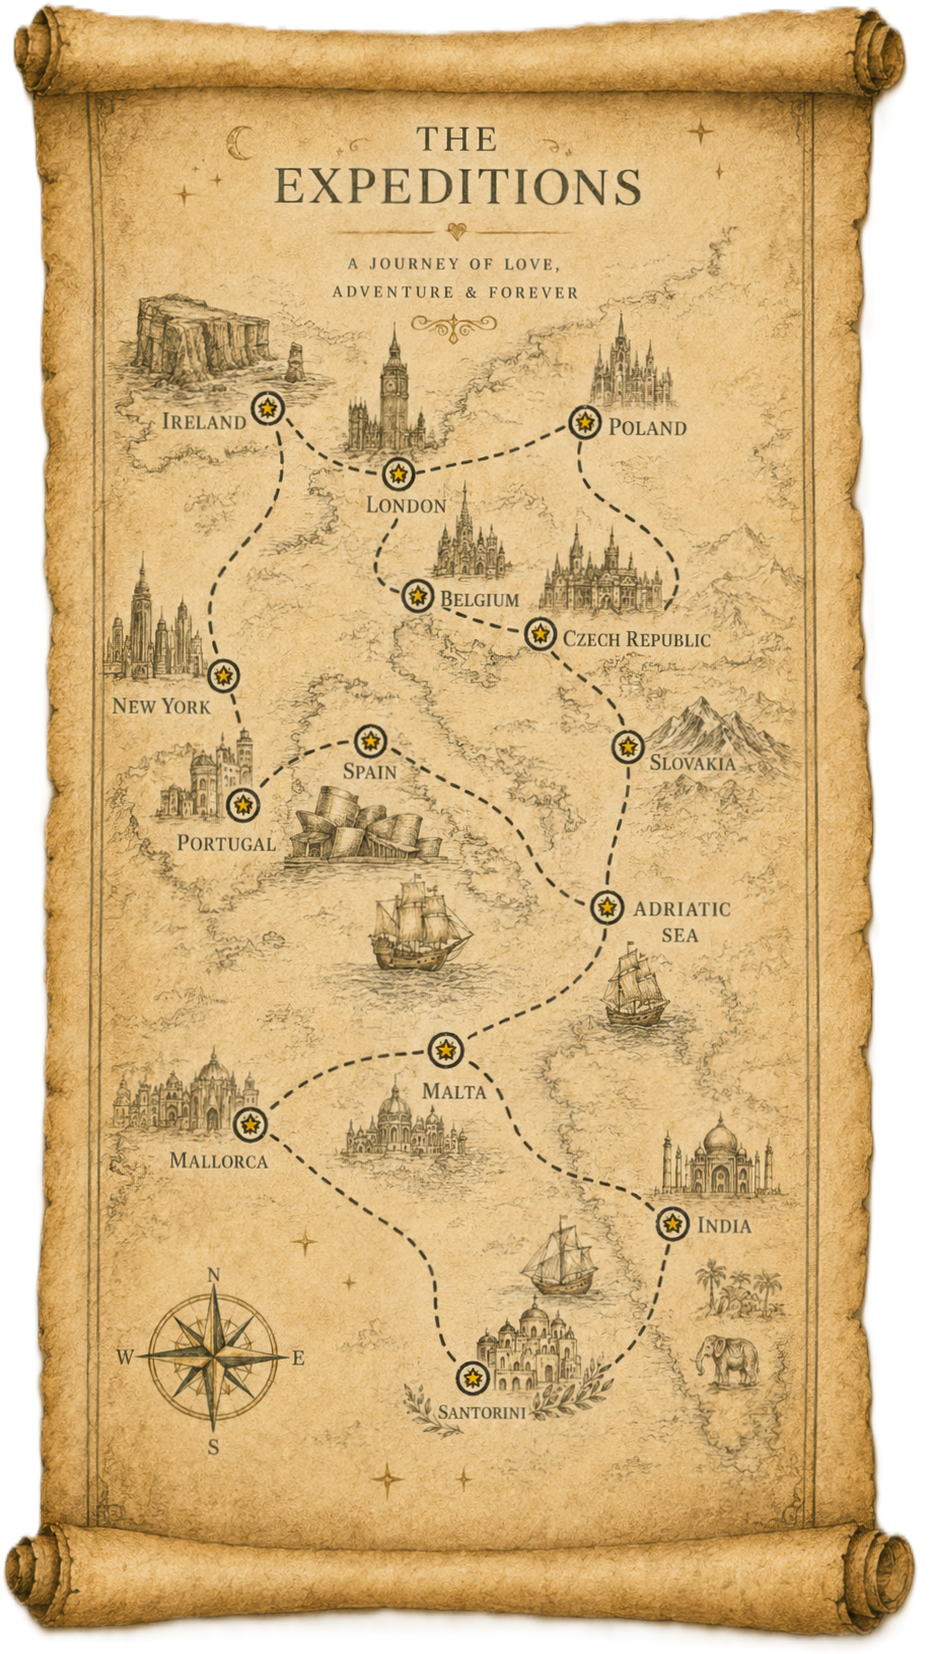
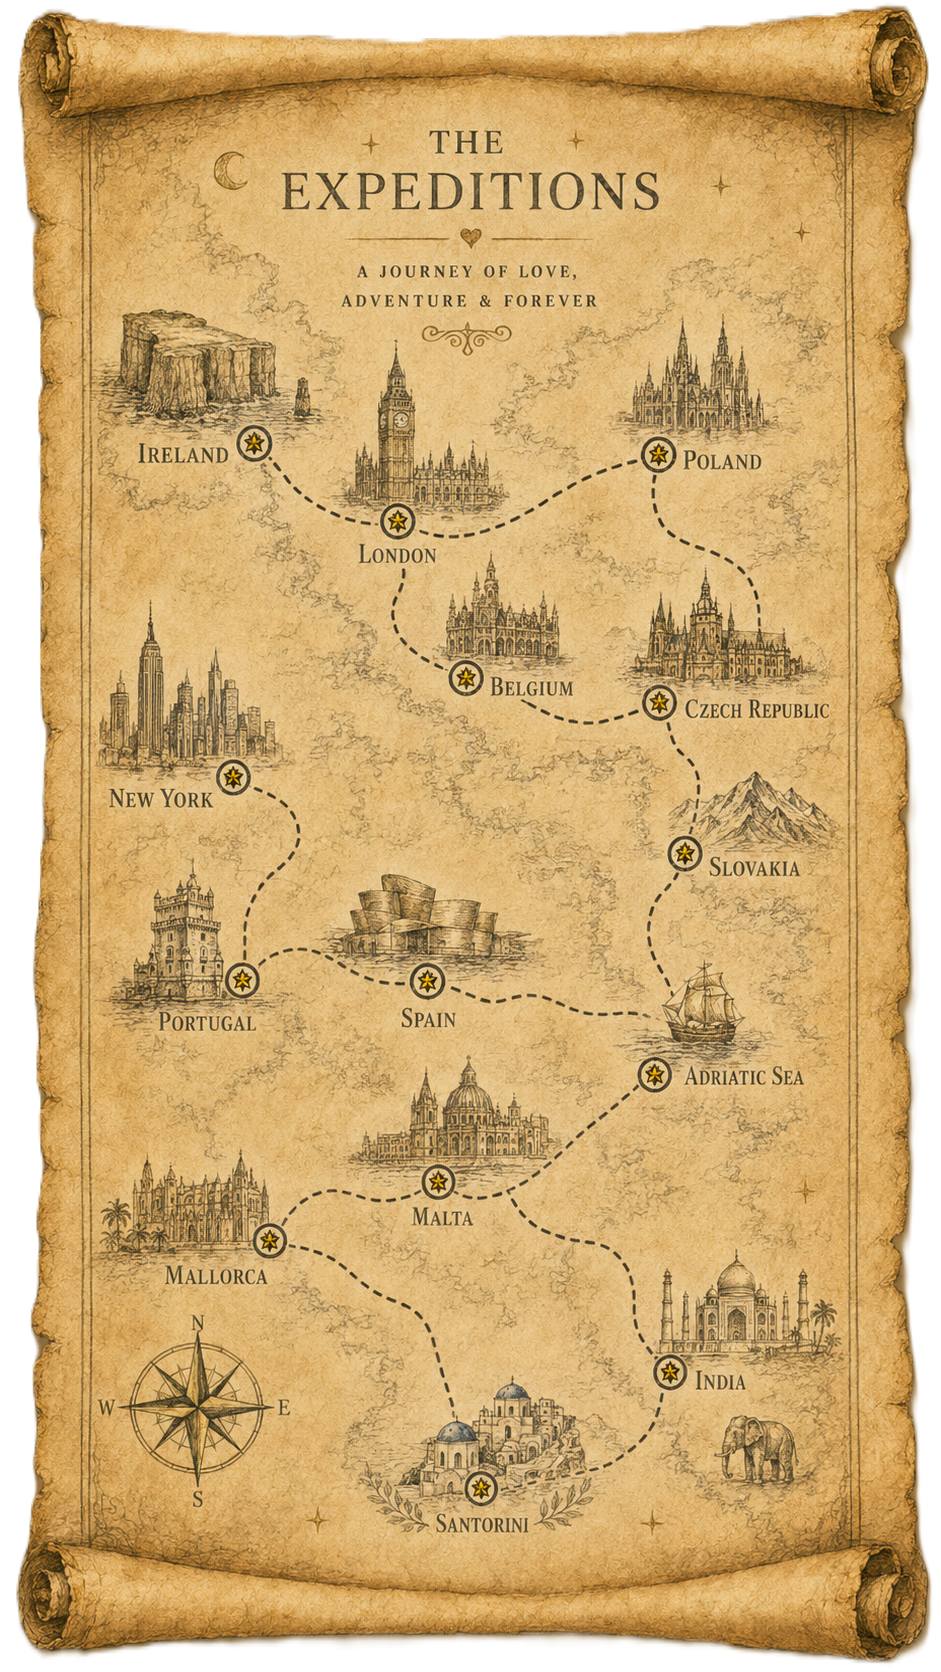
Re-measure waypoints against refined map + resize photo stacks per device
Map artwork replaced again with a version that has more evenly distributed
markers. Re-detected all 14 waypoint coordinates via colour-threshold marker
detection and verified by drawing them back onto the image -- caught and
fixed a Slovakia/Adriatic Sea mix-up in the process (their markers sit close
together and got swapped on the first pass).

Photo stacks: bigger on desktop/laptop (38px -> 50px), slightly smaller on
mobile (38px -> 34px) than the previous shared size.

diff --git a/index.html b/index.html
@@ -462,8 +462,11 @@
      rest stay dissolved back into their waypoint. Kept deliberately tiny --
      just a glance, not a full preview. */
   .map-mini-stack{
-    display:block; position:absolute; z-index:4; width:38px;
+    display:block; position:absolute; z-index:4; width:50px;
     transform:translate(-50%, calc(-100% - 6px)); cursor:pointer; /* static positioning -- never animated */
+  }
+  @media (max-width:768px){
+    .map-mini-stack{width:34px;} /* slightly smaller than the desktop/laptop size above */
   }
   /* pops up out of the waypoint (scale from near-zero, anchored at the
      bottom edge nearest the marker) as it scrolls into view, and dissolves
@@ -1654,25 +1657,26 @@
   // Malta1.jpg, Malta2.jpg ... Malta5.jpg (up to MAX_DECK_PHOTOS, gaps
   // allowed, all optional) become that destination's fanned photo deck,
   // resolved lazily on first open. See assets/photos/README.md.
-  // coordinates re-measured directly against the vertical/portrait map
-  // artwork (colour-thresholded marker detection, not eyeballed) after the
-  // image was swapped from a wide horizontal scroll to a tall vertical one --
-  // the old map didn't work well on mobile, the new one reads top-to-bottom.
+  // coordinates re-measured against the latest map artwork (evenly
+  // re-distributed markers, still vertical/portrait) via colour-thresholded
+  // marker detection, verified by drawing them back onto the image. Watch
+  // for Slovakia/Adriatic Sea specifically -- their markers sit close
+  // together and got swapped once already when re-measuring blind.
   var EXPEDITIONS = [
-    {id:'ireland', photoBase:'Ireland', key:'destIreland', x:28.7, y:24.7},
-    {id:'london', photoBase:'London', key:'destLondon', x:42.8, y:28.7},
-    {id:'poland', photoBase:'Poland', key:'destPoland', x:62.8, y:25.5},
-    {id:'new-york', photoBase:'NewYork', key:'destNewYork', x:24.0, y:40.9},
-    {id:'belgium', photoBase:'Belgium', key:'destBelgium', x:44.8, y:36.0},
-    {id:'czech-republic', photoBase:'CzechRepublic', key:'destCzechRepublic', x:58.0, y:38.3},
-    {id:'portugal', photoBase:'Portugal', key:'destPortugal', x:26.0, y:48.7},
-    {id:'spain', photoBase:'Spain', key:'destSpain', x:39.8, y:44.8},
-    {id:'slovakia', photoBase:'Slovakia', key:'destSlovakia', x:67.4, y:45.2},
-    {id:'adriatic-sea', photoBase:'AdriaticSea', key:'destAdriaticSea', x:65.2, y:54.8},
-    {id:'mallorca', photoBase:'Mallorca', key:'destMallorca', x:26.9, y:68.0},
-    {id:'malta', photoBase:'Malta', key:'destMalta', x:47.9, y:63.5},
-    {id:'india', photoBase:'India', key:'destIndia', x:72.2, y:74.0},
-    {id:'santorini', photoBase:'Santorini', key:'destSantorini', x:50.8, y:83.3}
+    {id:'ireland', photoBase:'Ireland', key:'destIreland', x:27.0, y:26.3},
+    {id:'london', photoBase:'London', key:'destLondon', x:42.1, y:31.1},
+    {id:'poland', photoBase:'Poland', key:'destPoland', x:69.9, y:27.1},
+    {id:'new-york', photoBase:'NewYork', key:'destNewYork', x:24.9, y:46.4},
+    {id:'belgium', photoBase:'Belgium', key:'destBelgium', x:49.6, y:40.4},
+    {id:'czech-republic', photoBase:'CzechRepublic', key:'destCzechRepublic', x:70.0, y:41.9},
+    {id:'portugal', photoBase:'Portugal', key:'destPortugal', x:25.7, y:58.5},
+    {id:'spain', photoBase:'Spain', key:'destSpain', x:45.3, y:58.6},
+    {id:'slovakia', photoBase:'Slovakia', key:'destSlovakia', x:72.7, y:51.0},
+    {id:'adriatic-sea', photoBase:'AdriaticSea', key:'destAdriaticSea', x:69.5, y:64.2},
+    {id:'mallorca', photoBase:'Mallorca', key:'destMallorca', x:28.6, y:74.1},
+    {id:'malta', photoBase:'Malta', key:'destMalta', x:46.5, y:70.6},
+    {id:'india', photoBase:'India', key:'destIndia', x:71.2, y:82.0},
+    {id:'santorini', photoBase:'Santorini', key:'destSantorini', x:51.0, y:89.0}
   ];
   var MAX_DECK_PHOTOS = 5;
   var expeditionPhotoCache = {};
